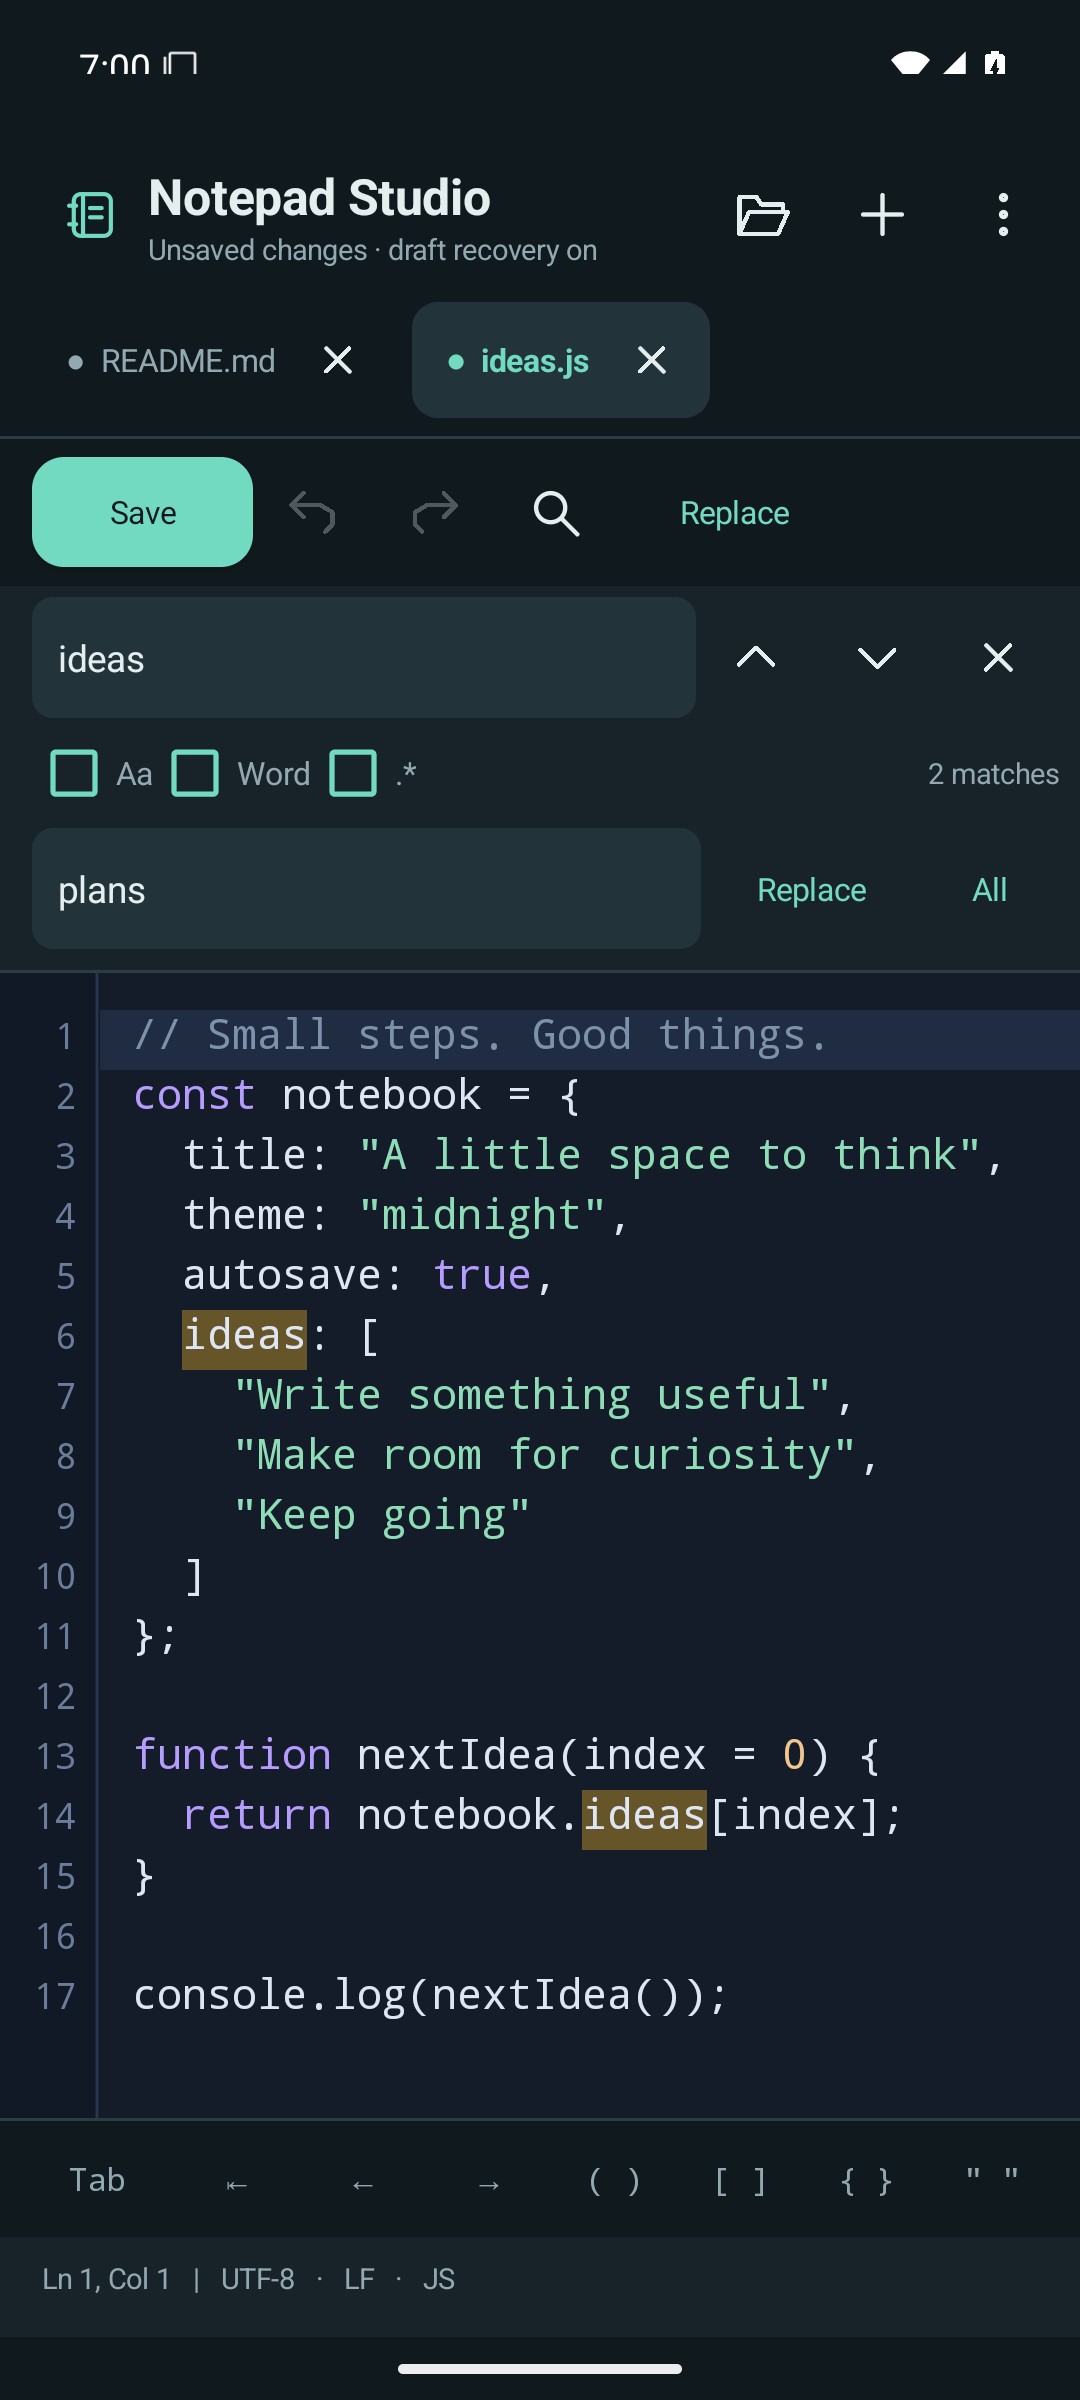
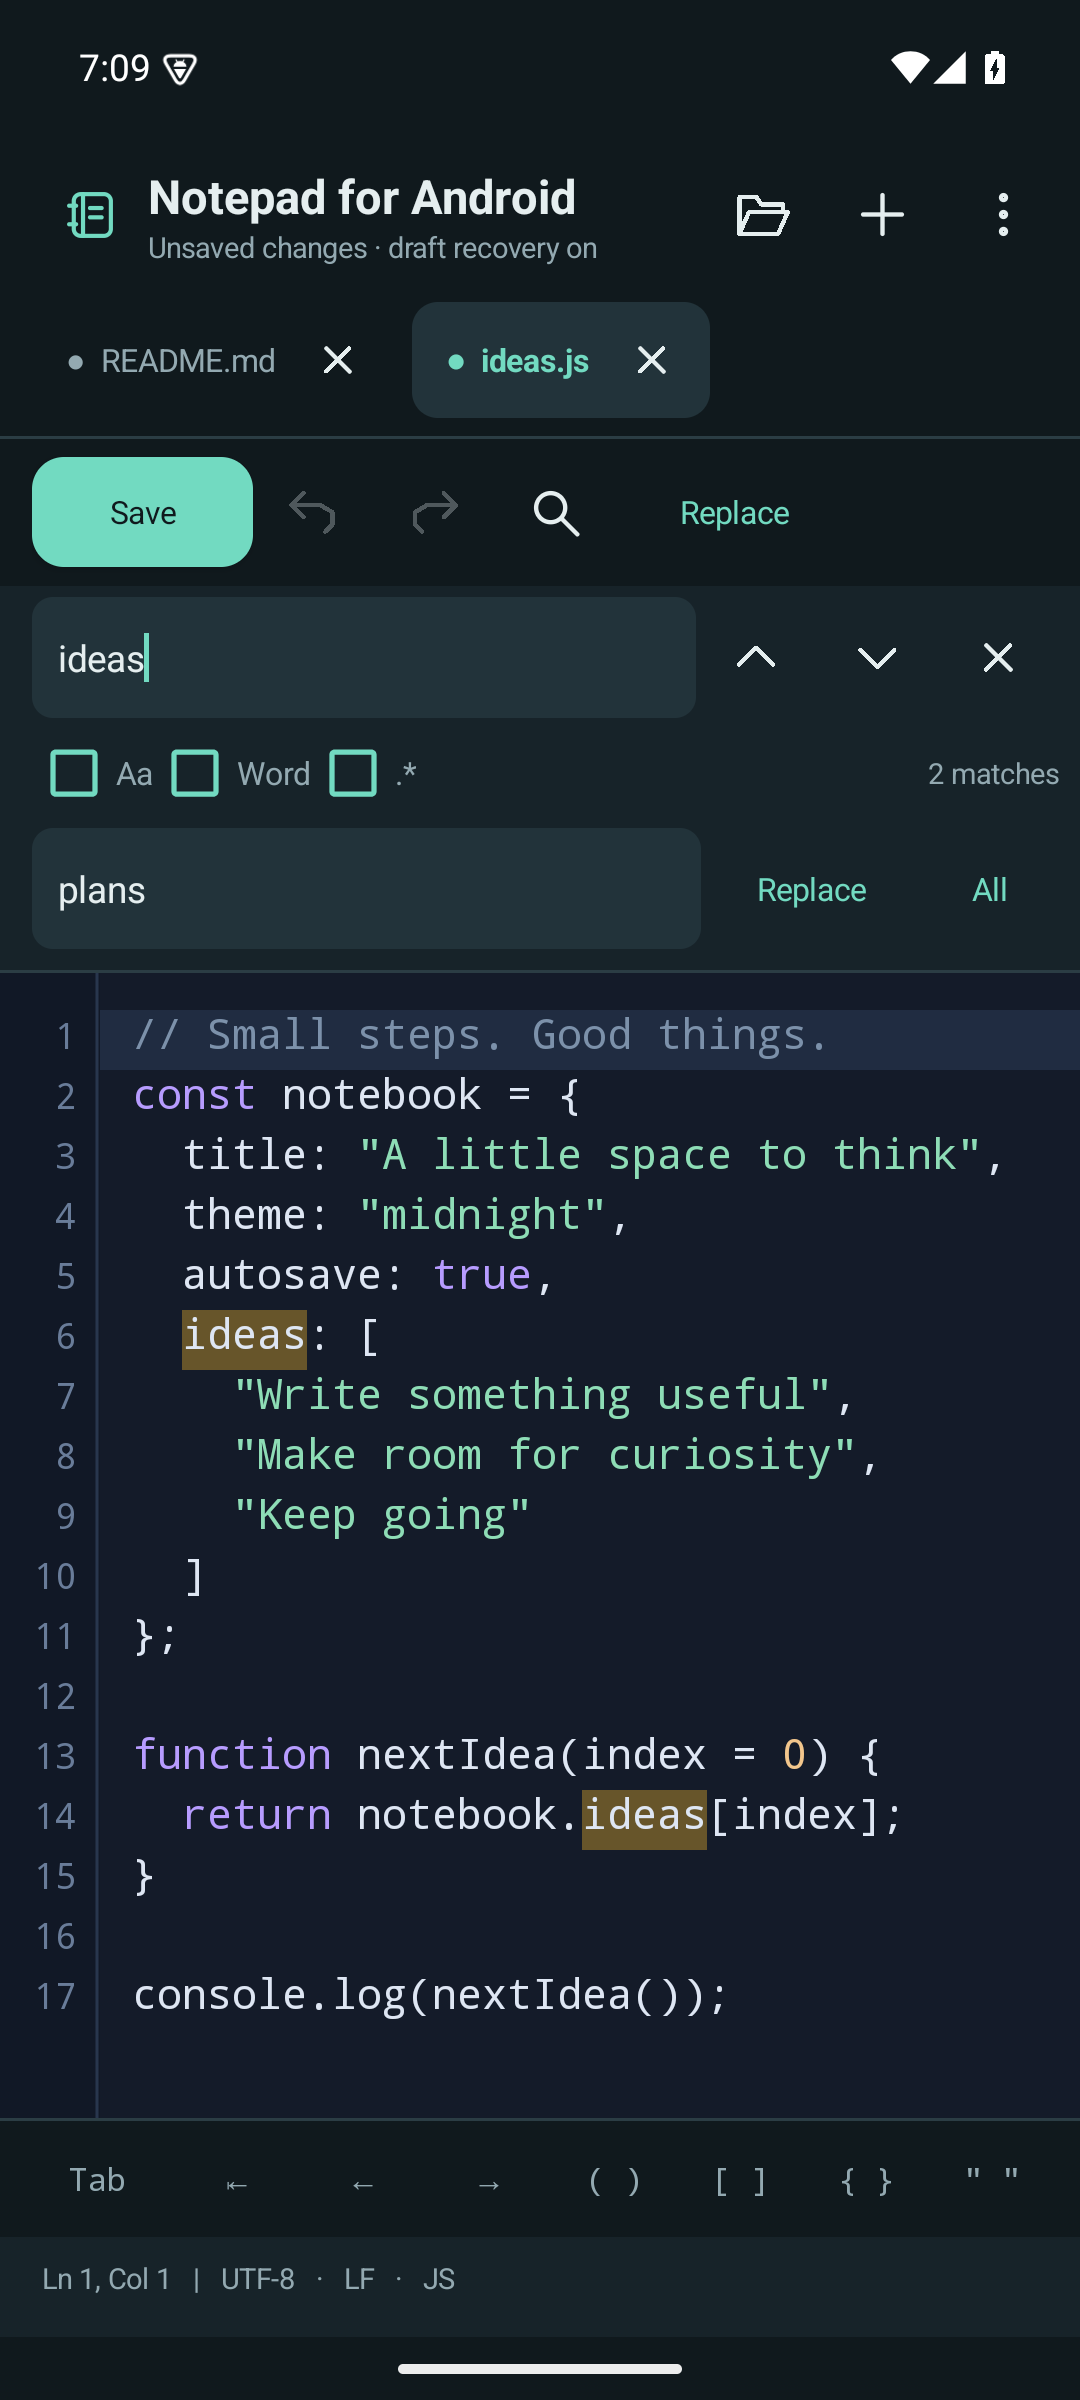
Rename app and repository branding to Notepad for Android

Changed region(s): [[0.1528, 0.0625, 0.55, 0.125], [0.1528, 0.0, 0.1833, 0.0312]]

diff --git a/app/src/main/java/com/shirochi/notepad/MainActivity.java b/app/src/main/java/com/shirochi/notepad/MainActivity.java
@@ -185,7 +185,7 @@ public final class MainActivity extends Activity {
     IconView logo = new IconView(this, "note", accent);
     header.addView(logo, lp(44, 48));
     LinearLayout branding = column();
-    TextView title = label("Notepad Studio", 19, fg);
+    TextView title = label(getString(R.string.app_name), 18, fg);
     title.setTypeface(Typeface.DEFAULT, Typeface.BOLD);
     branding.addView(title);
     subtitle = label("A little space to think.", 11, muted);
@@ -1251,7 +1251,7 @@ public final class MainActivity extends Activity {
       "Editor settings",
       "Share text",
       "Keyboard shortcuts",
-      "About Notepad Studio"
+      "About " + getString(R.string.app_name)
     };
     for (int i = 0; i < titles.length; i++) menu.getMenu().add(0, i, i, titles[i]);
     menu.setOnMenuItemClickListener(
@@ -1593,7 +1593,7 @@ public final class MainActivity extends Activity {
 
   private void about() {
     new AlertDialog.Builder(this)
-        .setTitle("Notepad Studio 1.0")
+        .setTitle(getString(R.string.app_name) + " 1.0.1")
         .setMessage(
             "A focused text and code editor for Android.\n\n"
                 + "Your drafts stay on this device. No account, ads, analytics, or internet"

diff --git a/README.md b/README.md
@@ -1,15 +1,15 @@
-# Notepad Studio for Android
+# Notepad for Android
 
-A native, offline text and code editor inspired by desktop editors such as Notepad++. Built in Java for **Android 8.0 and later**. Independent software; not affiliated with Notepad++.
+**Notepad for Android** is a native, offline text and code editor with document tabs, search and replace, syntax highlighting, and physical keyboard shortcuts including **Ctrl+F** and **Ctrl+H**. Built in Java for **Android 8.0 and later**, it brings familiar desktop editing features to your phone or tablet. Inspired by editors such as Notepad++; independent software, not affiliated with Notepad++.
 
 <p>
-  <img src="docs/screenshots/editor.png" width="280" alt="Notepad Studio with document tabs and JavaScript syntax highlighting" />
-  <img src="docs/screenshots/search-replace.png" width="280" alt="Find and replace with match highlights" />
+  <img src="docs/screenshots/editor.png" width="280" alt="Notepad for Android with document tabs and JavaScript syntax highlighting" />
+  <img src="docs/screenshots/search-replace.png" width="280" alt="Notepad for Android search and replace with match highlights" />
 </p>
 
 ## Install
 
-Download `Notepad-Studio-1.0.0-debug.apk` from the private [Releases page](https://github.com/Shirochi-stack/notepad-studio-android/releases). On your Android device, open the APK and allow installation from the app you used to download it when Android prompts you.
+Download `Notepad-for-Android-1.0.1-debug.apk` from the private [Releases page](https://github.com/Shirochi-stack/notepad-for-android/releases). On your Android device, open the APK and allow installation from the app you used to download it when Android prompts you.
 
 This is an installable, debug-signed development build. It is not a Google Play release. The source, APK, and build reports are private to people with repository access.
 
@@ -69,7 +69,7 @@ On Linux/macOS use `./gradlew` instead. The project pins Android Gradle Plugin 8
 
 ## GitHub Actions
 
-The **Android build** workflow runs unit tests, Android lint, and APK compilation on pushes and pull requests. It can also be started manually. Successful runs publish the installable debug APK as `Notepad-Studio-debug-APK`; verification reports are separate artifacts. APK artifacts expire after 30 days; a release attachment remains available until removed.
+The **Android build** workflow runs unit tests, Android lint, and APK compilation on pushes and pull requests. It can also be started manually. Successful runs publish the installable debug APK as `Notepad-for-Android-debug-APK`; verification reports are separate artifacts. APK artifacts expire after 30 days; a release attachment remains available until removed.
 
 Android instrumentation tests are run locally with the command above; the workflow does not provision an emulator.
 
